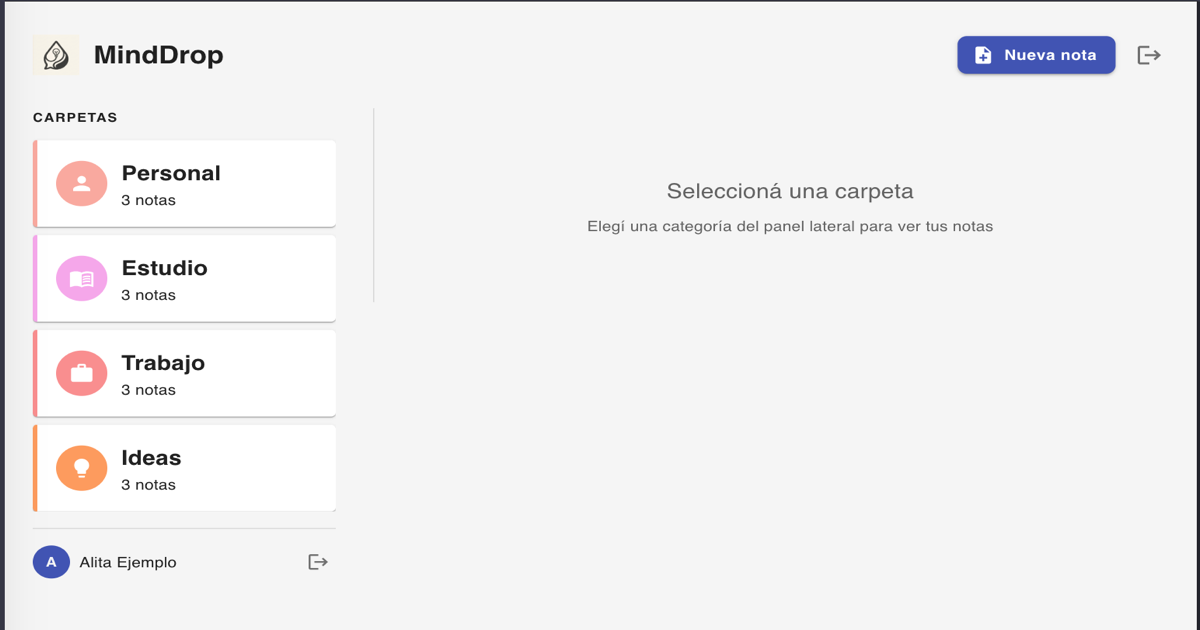
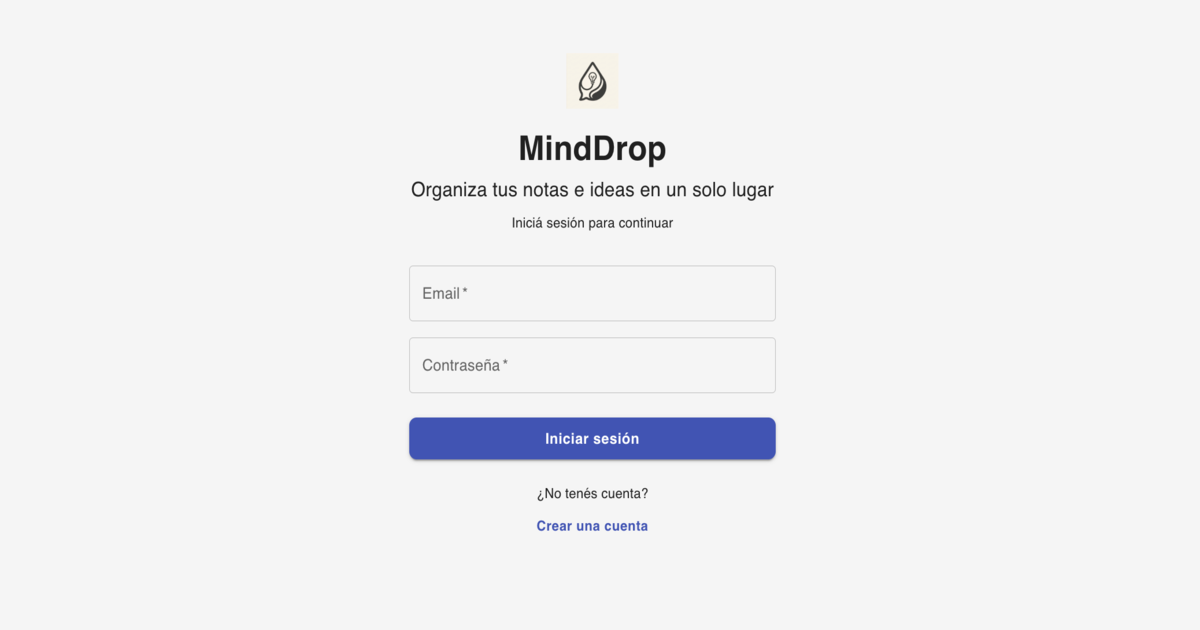
fix: og-image and CTA issues

diff --git a/src/views/Login.jsx b/src/views/Login.jsx
@@ -26,6 +26,9 @@ export default function Login({ onSwitch }) {
           <Typography variant="h4" sx={{ fontWeight: 700, mb: 0.5 }}>
             MindDrop
           </Typography>
+          <Typography variant="h6" color="text.secondary" sx={{ mb: 1 }}>
+            Organiza tus notas e ideas en un solo lugar
+          </Typography>
           <Typography variant="body2" color="text.secondary">
             Iniciá sesión para continuar
           </Typography>

diff --git a/index.html b/index.html
@@ -6,7 +6,7 @@
   <meta name="viewport" content="width=device-width, initial-scale=1.0">
 
   <!-- Favicon e Iconos -->
-  <link rel="icon" type="image/svg+xml" href="/favicon.ico">
+  <link rel="icon" type="image/x-icon" href="/favicon.ico">
   <link rel="apple-touch-icon" href="/apple-touch-icon.png">
 
   <!-- SEO Básico -->